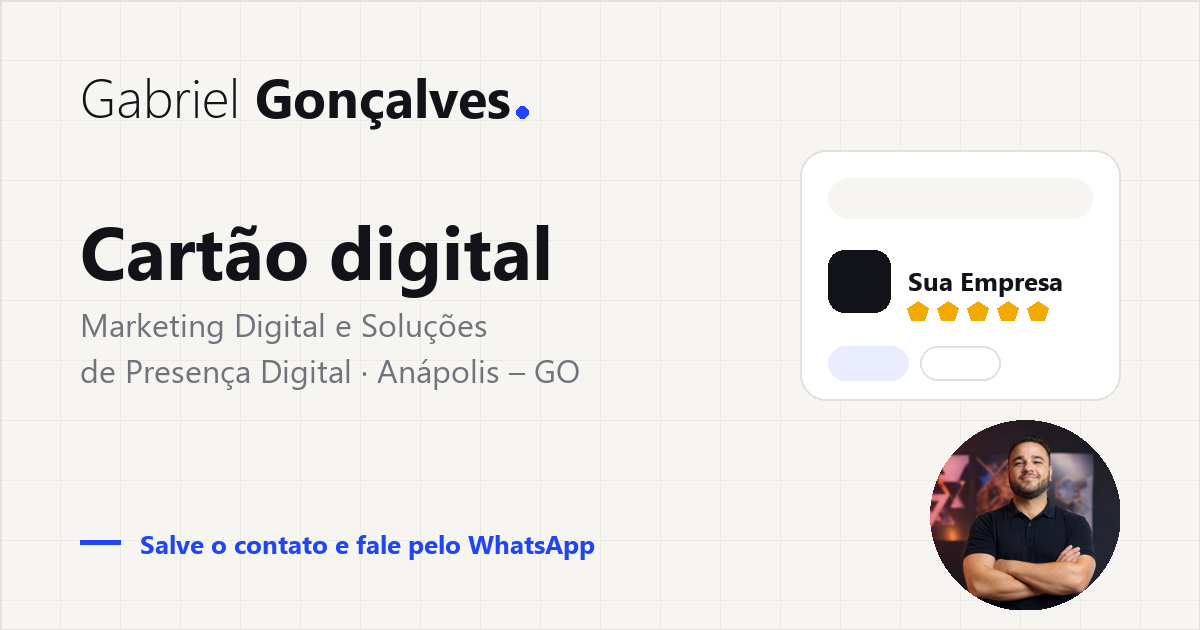
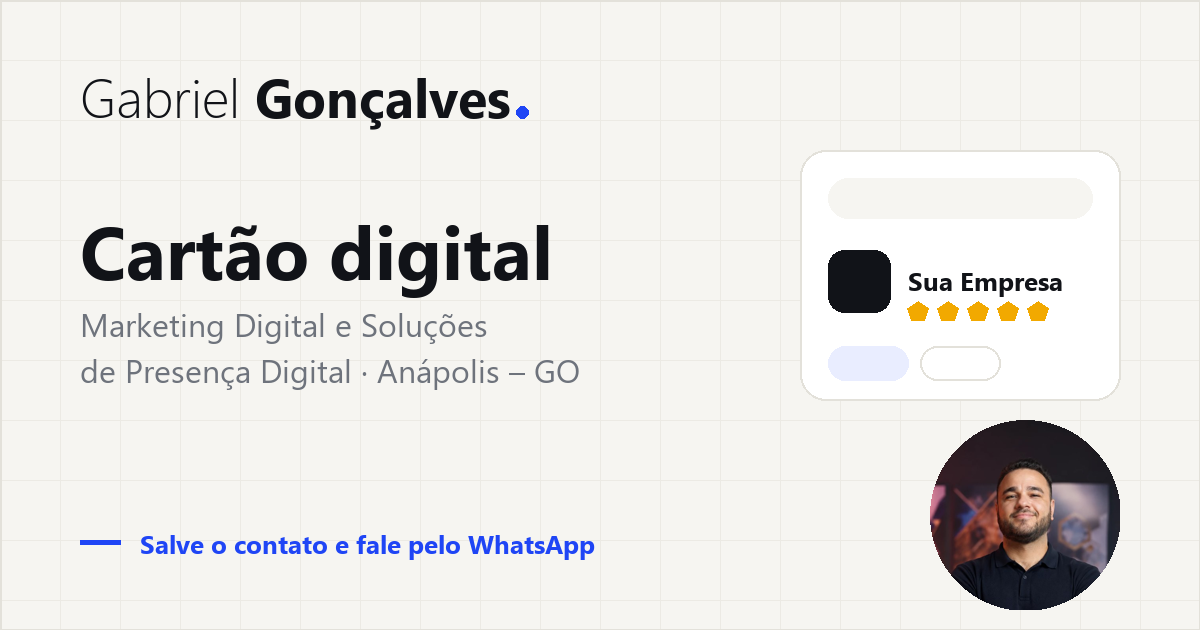
Cartão: foto de perfil centralizada no rosto

Changed region(s): [[0.7708, 0.6937, 0.925, 0.9651]]

diff --git a/cartao/index.html b/cartao/index.html
@@ -40,7 +40,7 @@
 <main class="card-page">
   <article class="vcard">
     <div class="avatar">
-      <img src="../assets/gabriel.jpg" alt="Gabriel Gonçalves" onerror="this.remove()" width="112" height="112">
+      <img src="../assets/gabriel-avatar.jpg" alt="Gabriel Gonçalves" onerror="this.remove()" width="112" height="112">
       <b>GG</b>
     </div>
     <h1><img class="wordmark" src="../assets/logo-nome.svg" alt="Gabriel Gonçalves" height="40"></h1>

diff --git a/css/style.css b/css/style.css
@@ -551,3 +551,5 @@ h2{font-size:clamp(1.7rem,4.6vw,2.7rem);max-width:20ch}
   .fab{display:none}
 }
 .cta small a{color:#c7cbd6}
+
+.vcard .avatar img{object-position:50% 50%}

diff --git a/tools/gerar-imagens.py b/tools/gerar-imagens.py
@@ -62,7 +62,7 @@ def og(nome_arquivo, titulo, linhas, rotulo):
     return im, d
 
 def salvar_foto_se_existir(im, d):
-    p = os.path.join(A, "gabriel.jpg")
+    p = os.path.join(A, "gabriel-avatar.jpg")
     if os.path.exists(p):
         f = Image.open(p).convert("RGB")
         f = ImageOps.fit(f, (190, 190))
